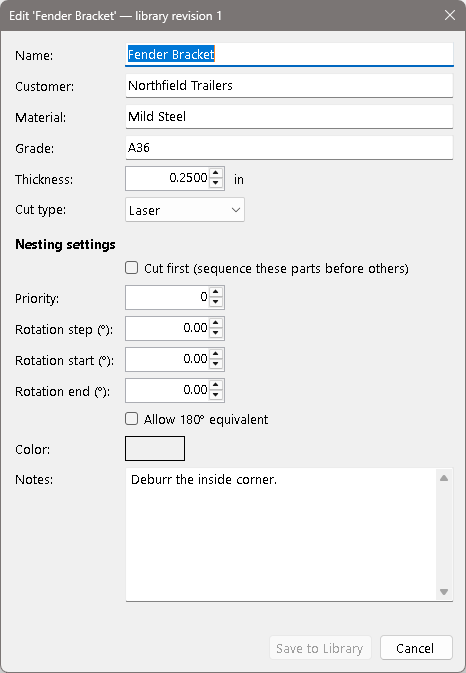
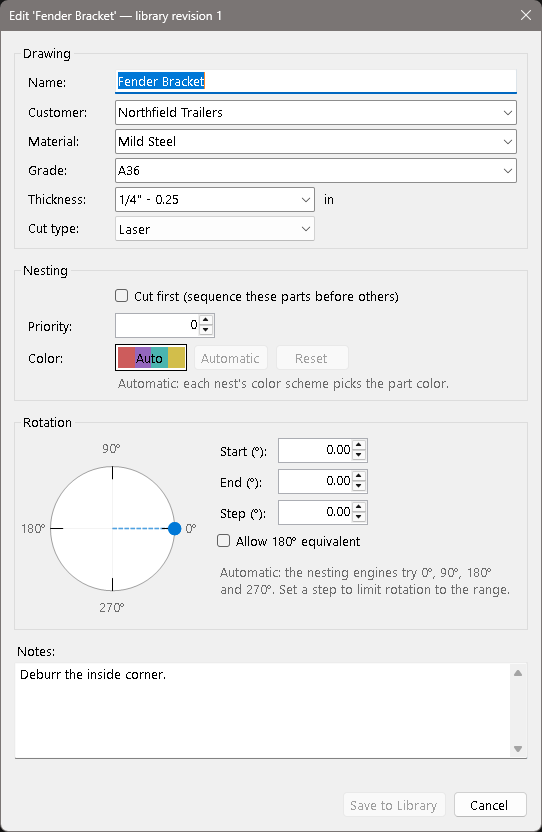
Recapture Edit Drawing after its redesign
The dialog now groups Drawing, Nesting and Rotation, lists known customers,
materials, grades and thicknesses, adds Automatic and Reset for the color,
and shades the rotation range on a dial. Describe each and renumber the
callouts.

diff --git a/docs/drawing-library.md b/docs/drawing-library.md
@@ -87,14 +87,23 @@ Click **Edit Drawing...** in the library, or right-click a drawing and choose
 
 ![Edit Drawing dialog](images/library-edit-drawing.png)
 
-1. **Details:** name, customer, material, grade, thickness and cut type. Units can't
-   be changed, because that would change what the geometry means.
-2. **Nesting settings**, used whenever the drawing is added to a nest:
+1. **Drawing:** name, customer, material, grade, thickness and cut type. Customer,
+   material, grade and thickness list the values the library and the machines already
+   use, so pick one to keep spellings matching; you can still type a new one. Units
+   can't be changed, because that would change what the geometry means.
+2. **Nesting**, used whenever the drawing is added to a nest:
     - **Cut first** sequences its parts before the others, for example a test square.
-    - **Priority** and the rotation limits work as they do in [Auto Nest](auto-nest.md).
-    - **Color** is how its parts are drawn in the nest.
+    - **Priority** works as it does in [Auto Nest](auto-nest.md).
+    - **Color** is how its parts are drawn in the nest. Click the swatch to pick a color
+      used in every color scheme; **Automatic** lets each nest's color scheme pick it
+      again, and **Reset** puts back the color the drawing had.
 
-3. **Save to Library** saves a new revision. It stays greyed out until you change
+3. **Rotation:** the angles the nesting engines may turn its parts to. Set **Start**,
+   **End** and **Step**, or drag the dial's handles; the dial shades the range and ticks
+   each angle tried, and the line below it says what the engines will do. With a
+   **Step** of 0 the engines try 0°, 90°, 180° and 270°. **Allow 180° equivalent** also
+   tries each angle turned half a turn.
+4. **Save to Library** saves a new revision. It stays greyed out until you change
    something.
 
 If your changes would make the drawing match another library drawing, OpenNest names
